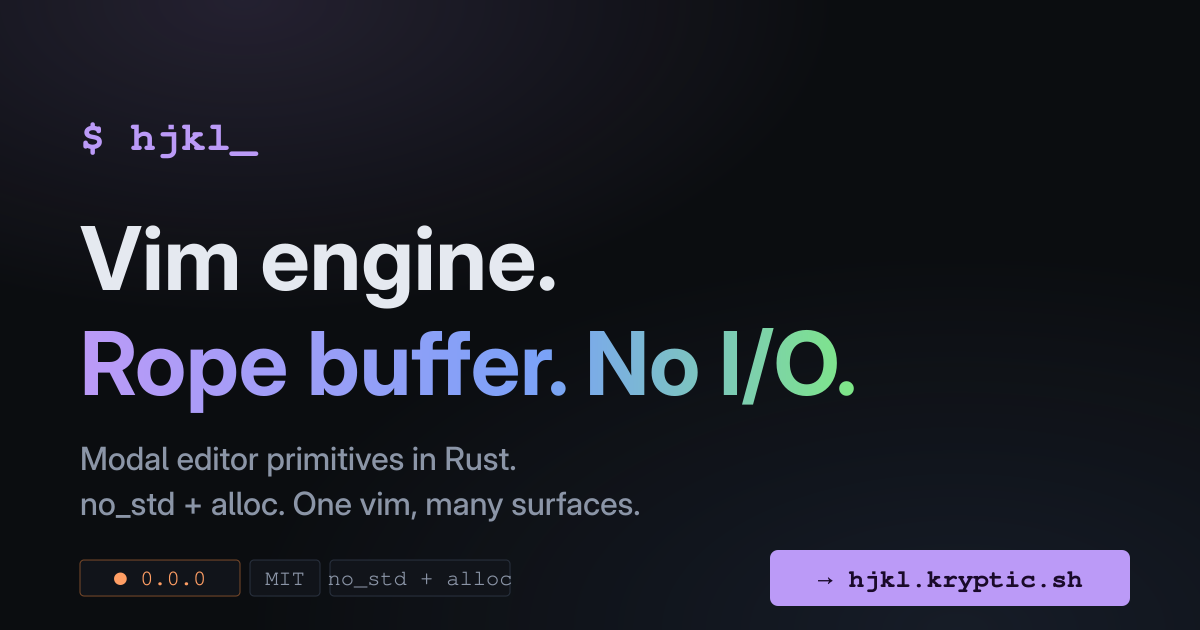
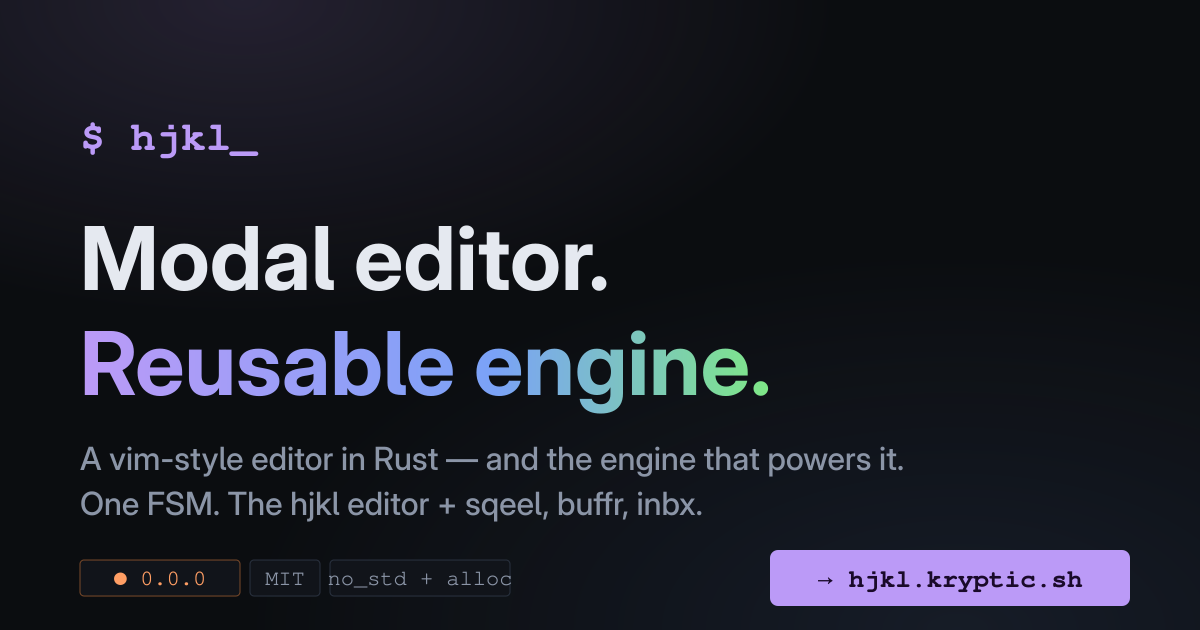
docs: reframe hjkl as full editor + reusable engine

Changed region(s): [[0.0617, 0.3619, 0.7092, 0.6635], [0.0617, 0.6937, 0.7708, 0.8444]]

diff --git a/index.html b/index.html
@@ -4,24 +4,24 @@
     <meta charset="utf-8" />
     <meta name="viewport" content="width=device-width,initial-scale=1" />
     <meta name="theme-color" content="#bb9af7" />
-    <title>hjkl — vim engine + rope buffer in Rust</title>
+    <title>hjkl — modal editor + vim engine in Rust</title>
     <meta
       name="description"
-      content="hjkl — vim engine, rope buffer, and modal editor primitives. Rust, no_std + alloc. Reusable across TUI, GUI, and browser surfaces."
+      content="hjkl — a vim-style modal editor in Rust. Built on a reusable engine, rope buffer, and editor primitives that also power sqeel, buffr, and inbx. no_std + alloc."
     />
     <meta
       name="keywords"
-      content="hjkl, vim engine, rope buffer, modal editor, rust no_std, ratatui, kryptic, sqeel, buffr"
+      content="hjkl, vim editor, modal editor, vim engine, rope buffer, rust editor, rust no_std, ratatui, kryptic, sqeel, buffr"
     />
     <link rel="canonical" href="https://hjkl.kryptic.sh/" />
     <meta name="robots" content="index, follow" />
     <meta
       property="og:title"
-      content="hjkl — vim engine + rope buffer in Rust"
+      content="hjkl — modal editor + vim engine in Rust"
     />
     <meta
       property="og:description"
-      content="Vim engine, rope buffer, and modal editor primitives. Rust, no_std + alloc."
+      content="A vim-style modal editor in Rust. Engine, rope buffer, and editor primitives reused across sqeel, buffr, and inbx."
     />
     <meta property="og:type" content="website" />
     <meta property="og:url" content="https://hjkl.kryptic.sh/" />
@@ -31,16 +31,16 @@
     <meta property="og:image:height" content="630" />
     <meta
       property="og:image:alt"
-      content="hjkl — vim engine, rope buffer, and modal editor primitives in Rust"
+      content="hjkl — modal editor + vim engine in Rust"
     />
     <meta name="twitter:card" content="summary_large_image" />
     <meta
       name="twitter:title"
-      content="hjkl — vim engine + rope buffer in Rust"
+      content="hjkl — modal editor + vim engine in Rust"
     />
     <meta
       name="twitter:description"
-      content="Vim engine, rope buffer, and modal editor primitives. Rust, no_std + alloc."
+      content="A vim-style modal editor in Rust. Engine, rope buffer, and editor primitives reused across sqeel, buffr, and inbx."
     />
     <meta name="twitter:image" content="https://hjkl.kryptic.sh/og-image.png" />
     <link rel="icon" type="image/svg+xml" href="favicon.svg" />
@@ -52,7 +52,7 @@
         "@context": "https://schema.org",
         "@type": "SoftwareSourceCode",
         "name": "hjkl",
-        "description": "Vim engine, rope buffer, and modal editor primitives. Rust, no_std + alloc.",
+        "description": "A vim-style modal editor in Rust. Built on a reusable engine, rope buffer, and editor primitives.",
         "url": "https://hjkl.kryptic.sh/",
         "programmingLanguage": "Rust",
         "license": "https://opensource.org/licenses/MIT",
@@ -635,12 +635,12 @@
           <span class="badge">no_std + alloc</span>
         </div>
         <h1>
-          Vim engine.<br />
-          <span class="grad">Rope buffer. No I/O.</span>
+          Modal editor.<br />
+          <span class="grad">Reusable engine.</span>
         </h1>
-        <p class="tagline">Modal editor primitives in Rust.</p>
+        <p class="tagline">A vim-style editor in Rust — and the engine that powers it.</p>
         <p class="tagline" style="color: var(--fg-muted); font-size: 16px">
-          One vim implementation, many surfaces. TUI, GUI, browser — same FSM.
+          One vim implementation, many surfaces. The hjkl editor + sqeel, buffr, inbx. Same FSM.
         </p>
 
         <div class="cta">
@@ -731,12 +731,13 @@
         <div class="grid">
           <div class="feat">
             <div class="icon">01 — REUSE</div>
-            <h4>Extracted from sqeel</h4>
+            <h4>One FSM, many surfaces</h4>
             <p>
               Same FSM that drives
-              <a href="https://sqeel.kryptic.sh/">sqeel</a> will drive
-              <a href="https://buffr.kryptic.sh/">buffr</a> and a future
-              standalone hjkl binary.
+              <a href="https://sqeel.kryptic.sh/">sqeel</a>,
+              <a href="https://buffr.kryptic.sh/">buffr</a>, and
+              <a href="https://inbx.kryptic.sh/">inbx</a> drives the standalone
+              hjkl editor.
             </p>
           </div>
           <div class="feat">
